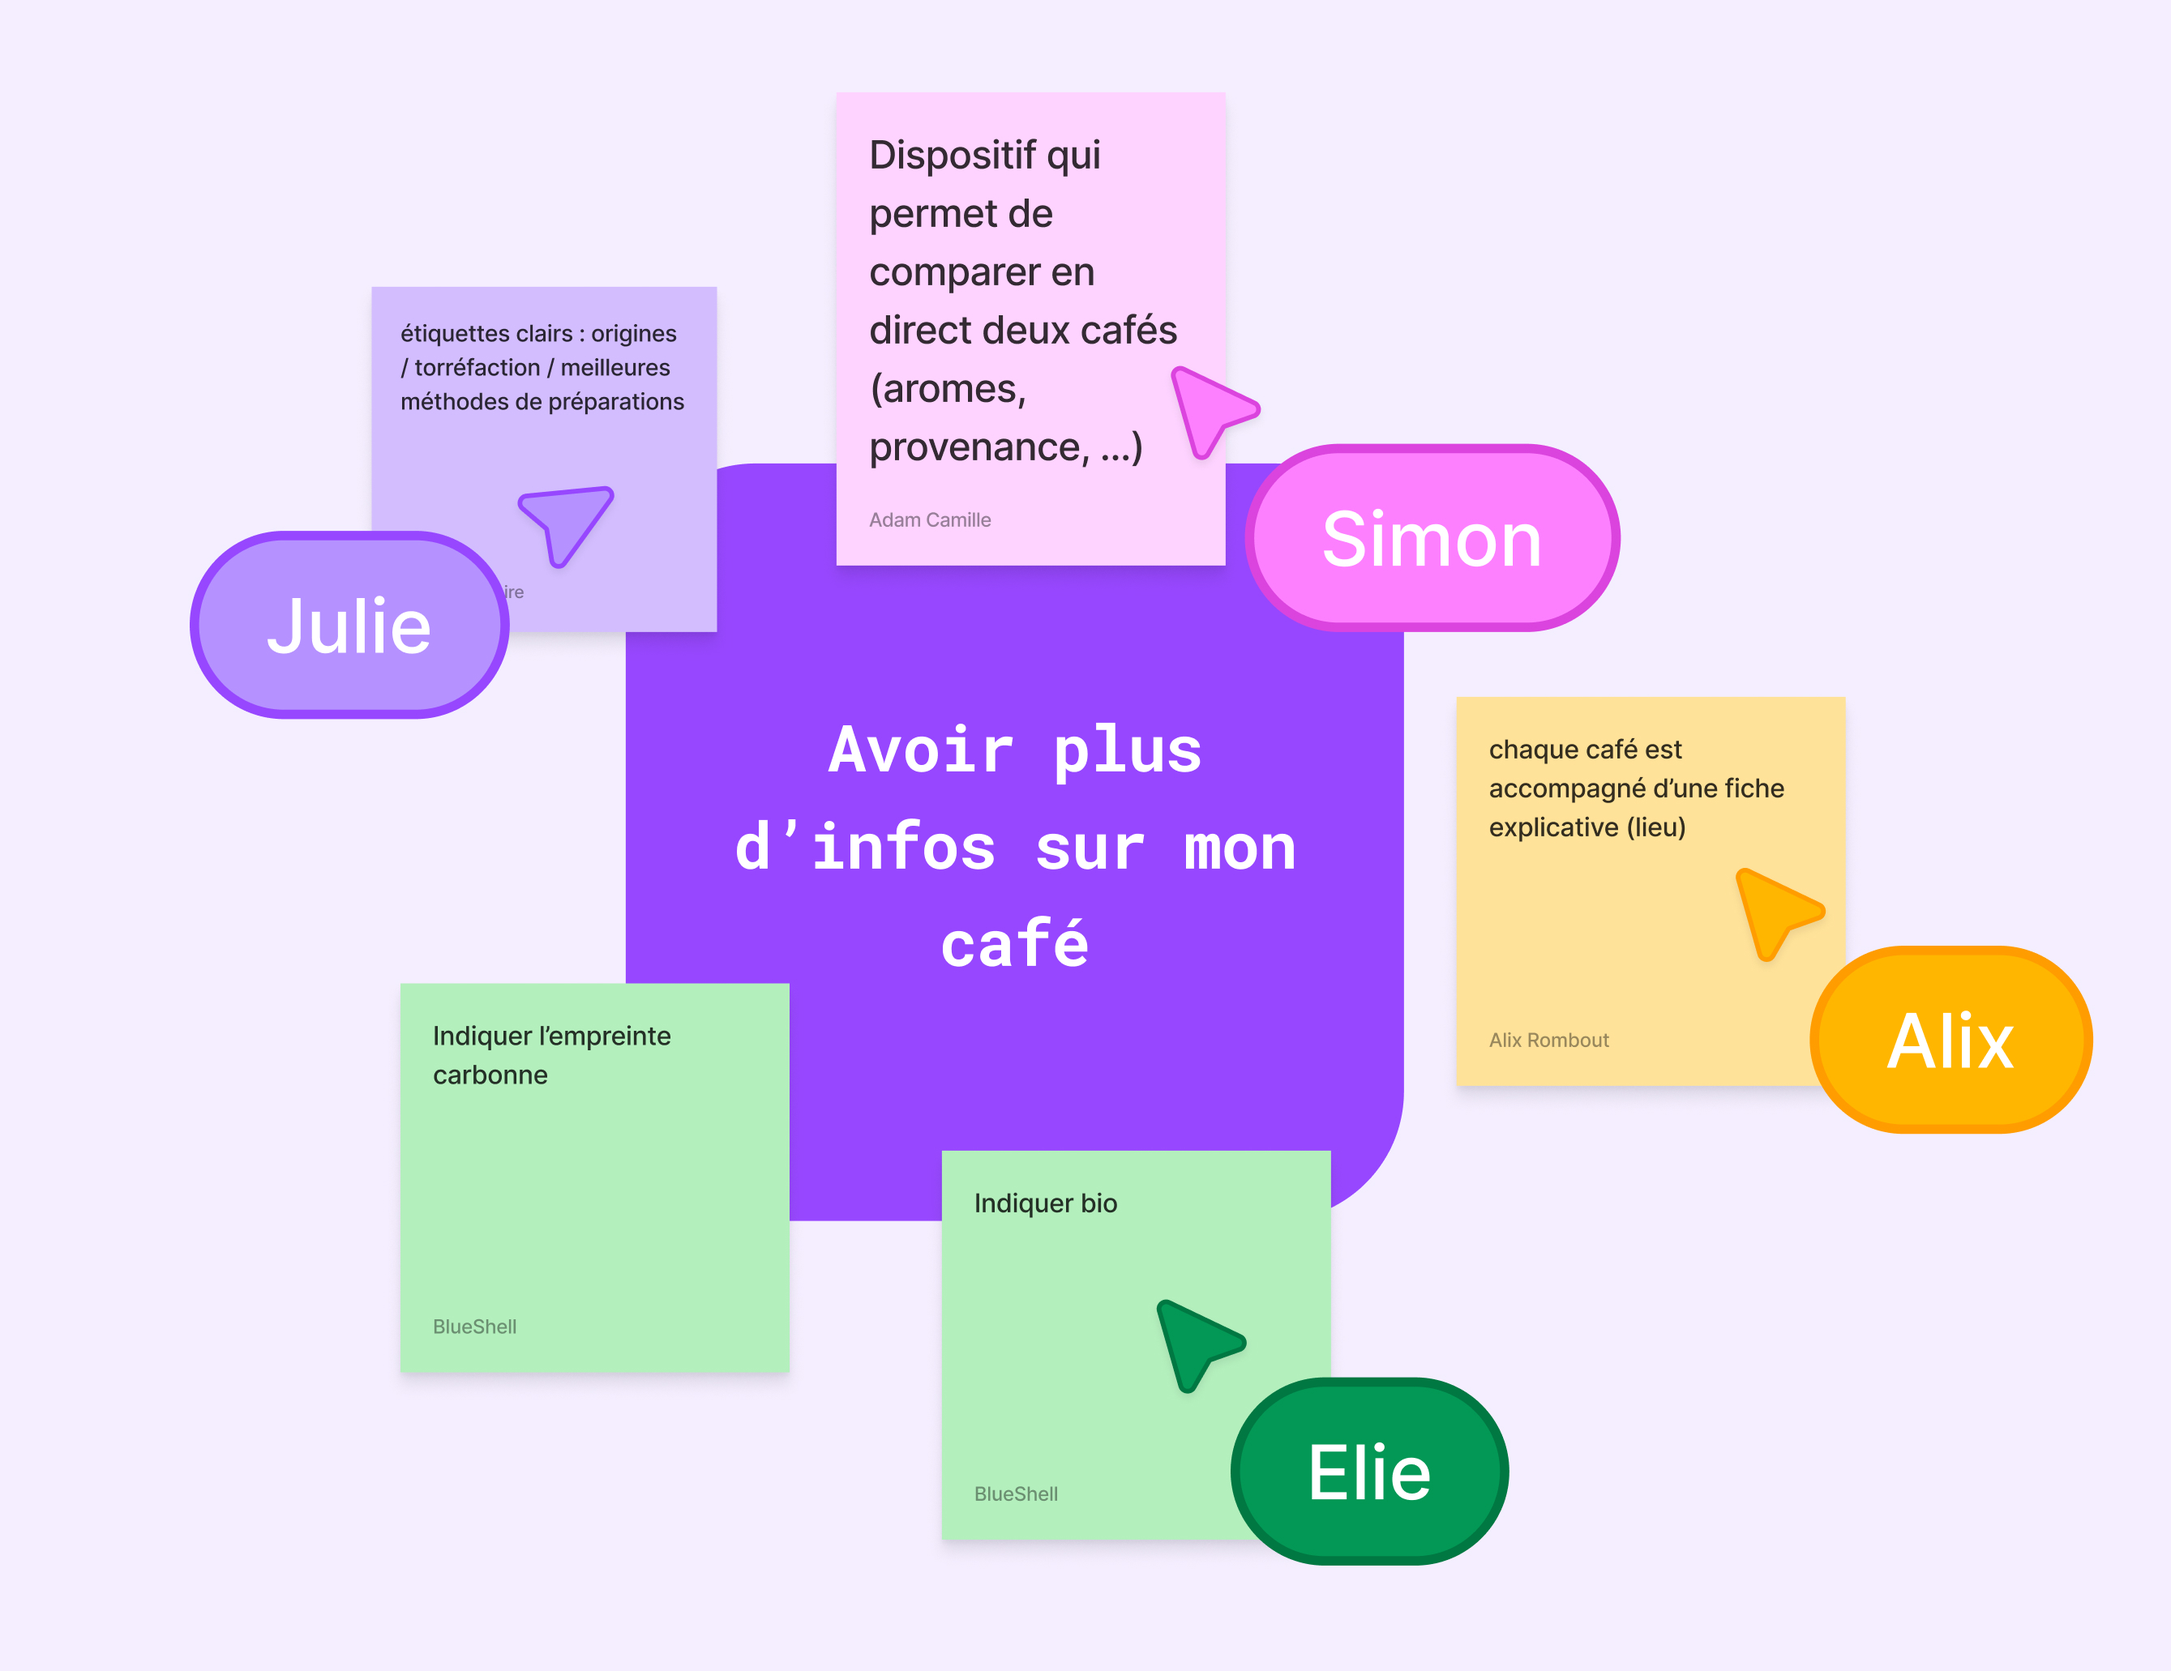
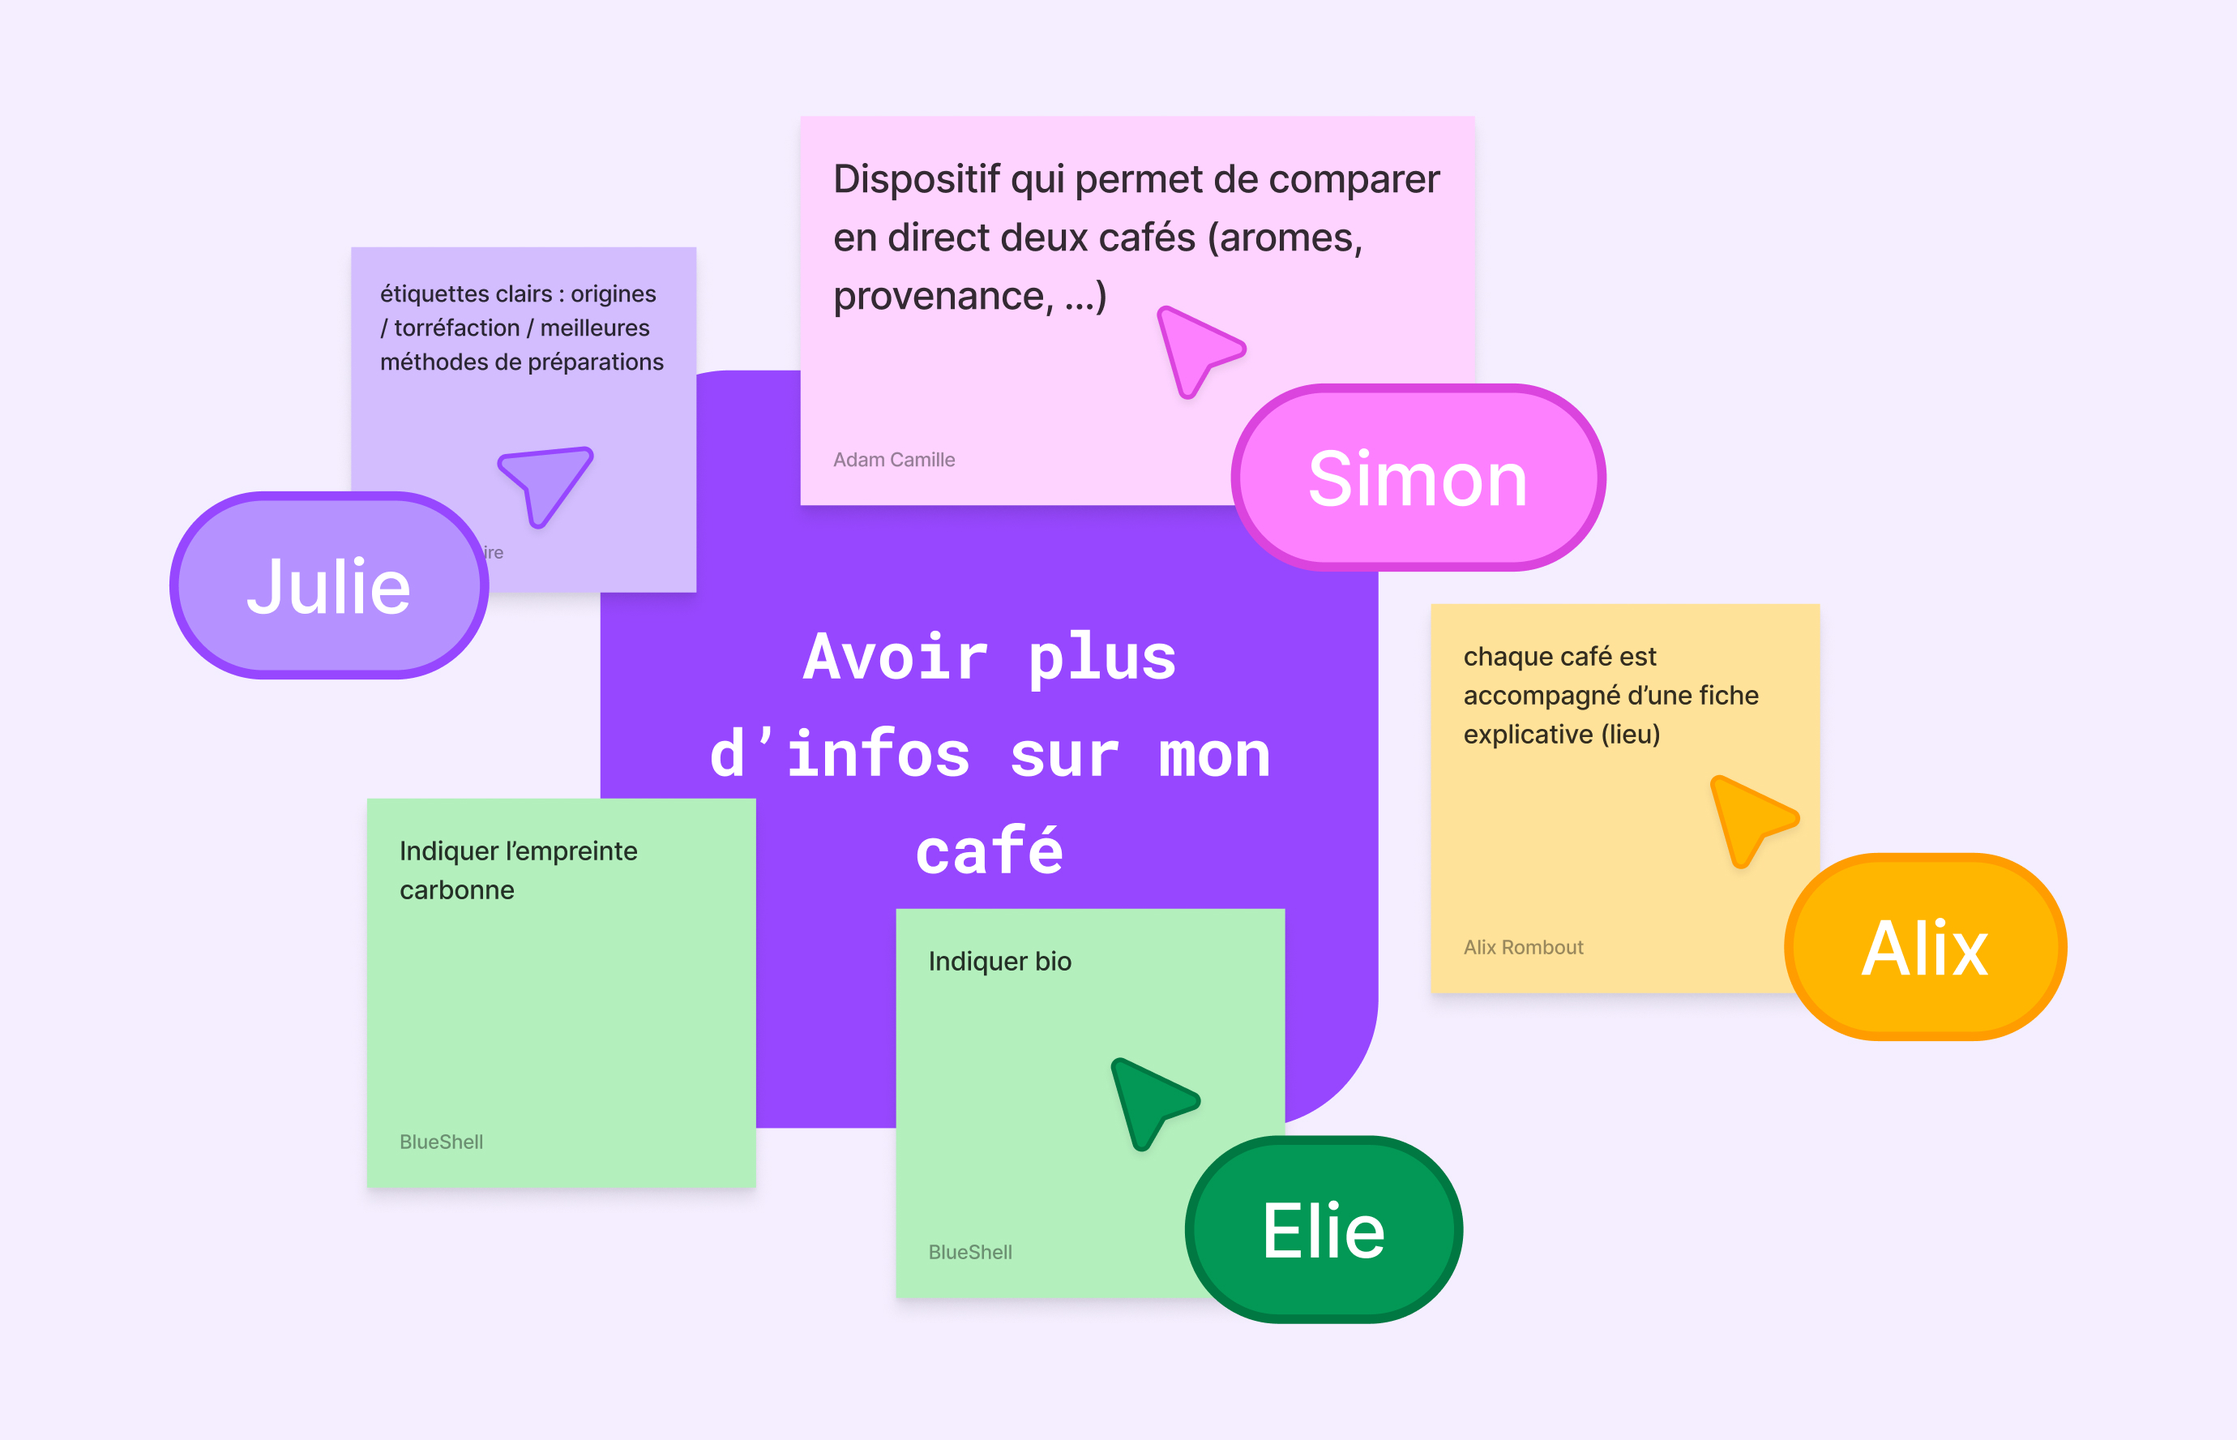
plusieurs changements

Changed region(s): [[0.062, 0.031, 0.9608, 0.96]]

diff --git a/index.html b/index.html
@@ -409,7 +409,7 @@ nav {
 }
 
 .project-card:not(.project-card-large) .project-visual {
-  aspect-ratio: 4 / 3;
+  aspect-ratio: 16 / 10;
   flex: 0 0 auto;
 }
 
